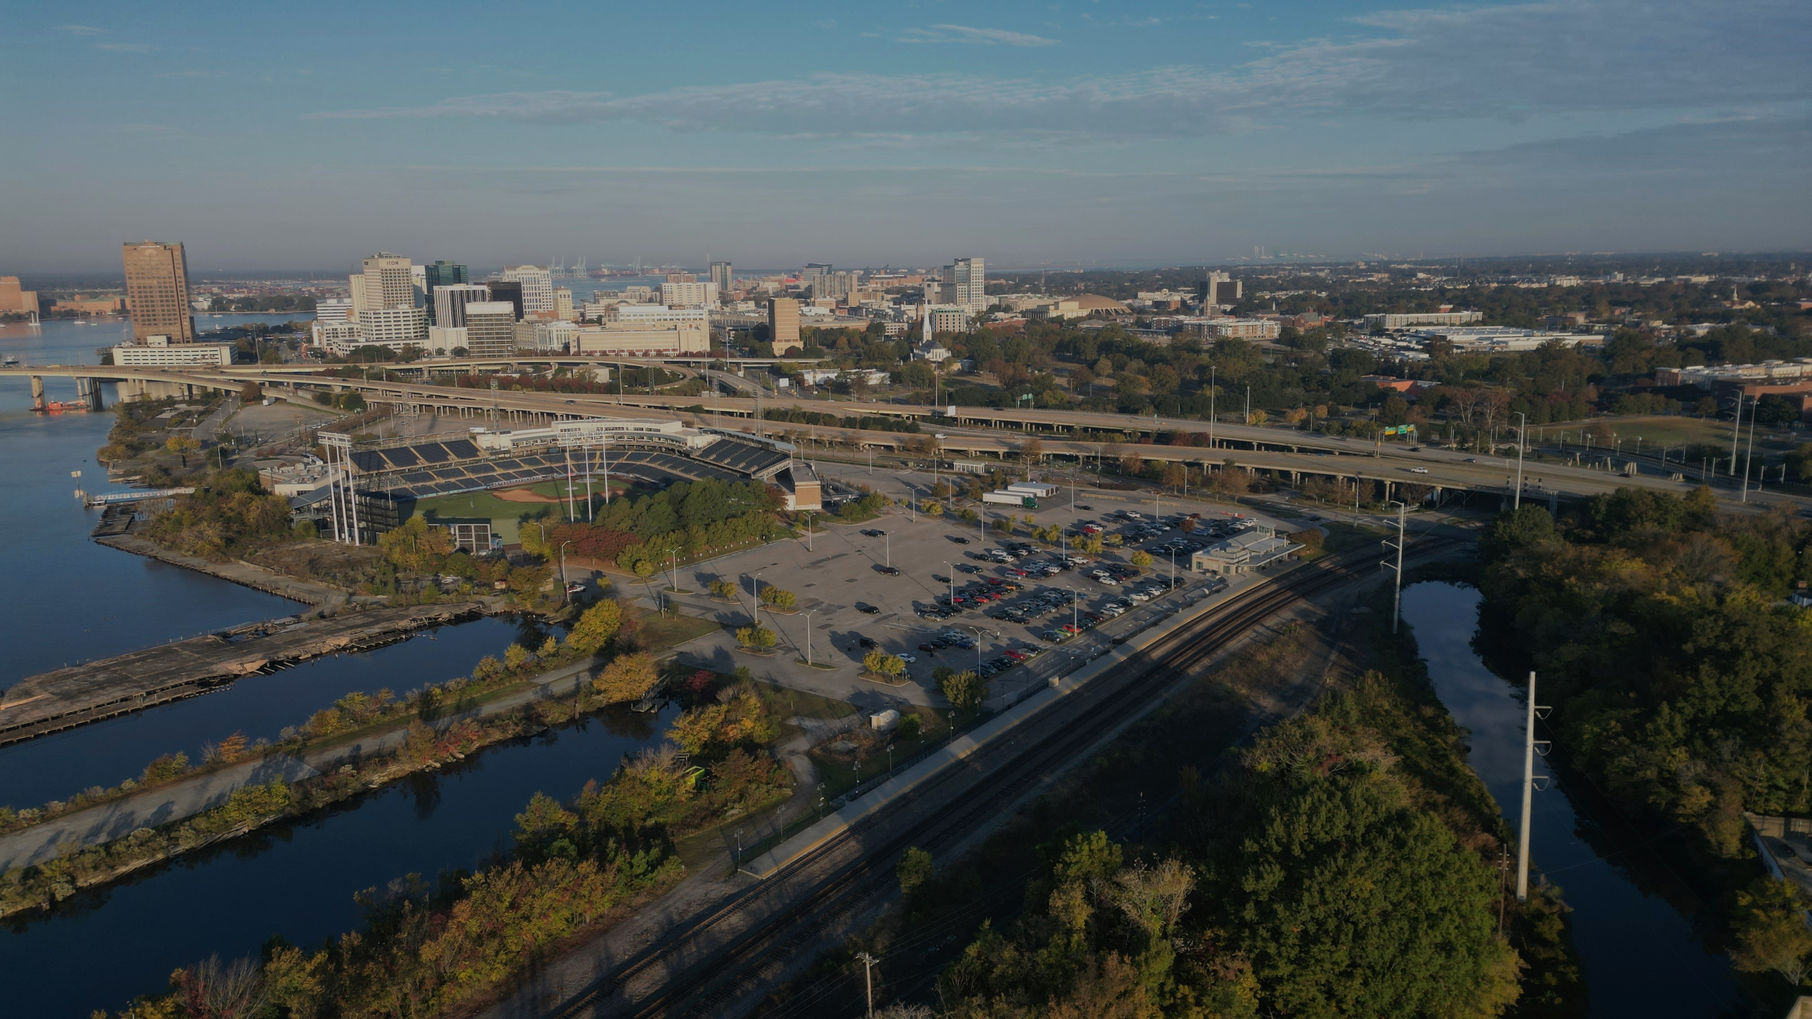
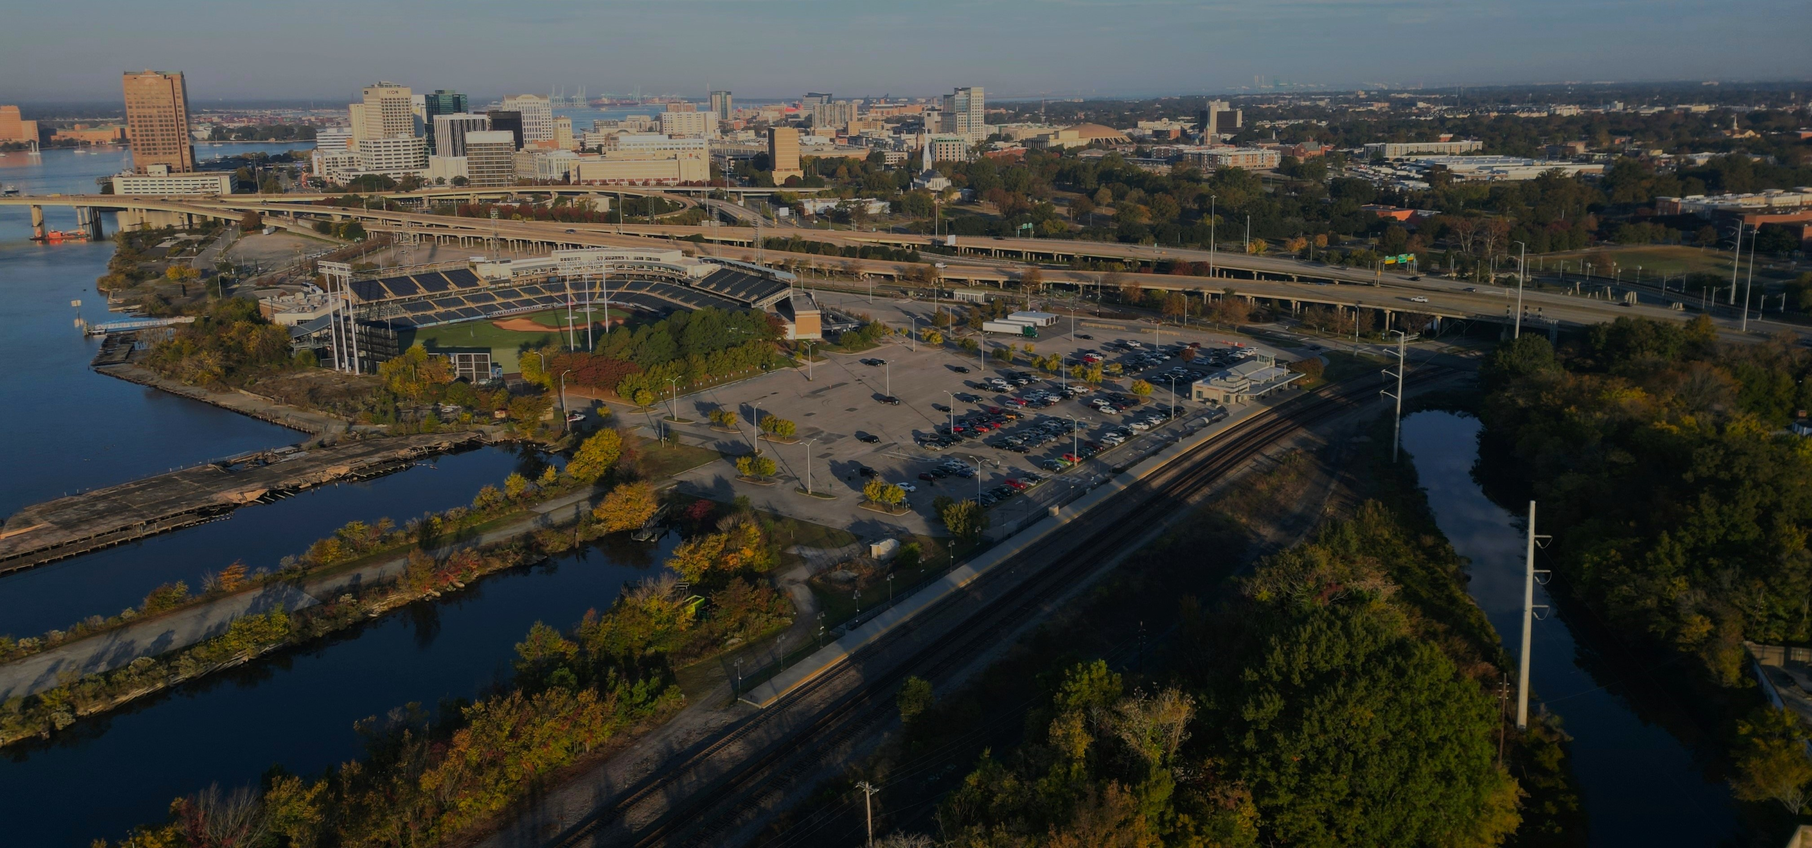
Update 1/28/2024

diff --git a/design.html b/design.html
@@ -23,7 +23,7 @@
                     <div class="collapse navbar-collapse" id="navbarSupportedContent">
                         <ul class="navbar-nav ms-auto mb-2 mb-lg-0">
                             <li class="nav-item"><a class="nav-link" href="index.html">Home</a></li>
-                            <li class="nav-item"><a class="nav-link" href="design.html">Problem Statement</a></li>
+                            <li class="nav-item"><a class="nav-link" href="design.html">Design Problem</a></li>
                             <li class="nav-item"><a class="nav-link" href="cc.html">Criteria and Constraints</a></li>
                             <li class="nav-item"><a class="nav-link" href="final.html">Final Design</a></li>
                             <li class="nav-item"><a class="nav-link" href="timeline.html">Timeline and Progress</a></li>
@@ -38,7 +38,7 @@
                     <div class="row justify-content-center">
                         <div class="col-lg-8 col-xxl-6">
                             <div class="text-center my-5">
-                                <h1 class="fw-bolder mb-3">Problem Statement</h1>
+                                <h1 class="fw-bolder mb-3">Design Problem</h1>
                                 <p class="lead fw-normal text-muted mb-4"></p>
                             </div>
                         </div>
@@ -52,7 +52,17 @@
                         <div class="col-lg-6"><img class="img-fluid mb-5 mb-lg-0" src="assets/norf.jpg" alt="..." /></div>
                         <div class="col-lg-6">
                             <h2 class="fw-bolder">Background</h2>
-                            <p class="lead fw-normal text-muted mb-0"> Newton Creek is a covered creek in a the Norfolk area that experiences significant flooding from tidal and rain events. A daylighting project has the potential to create a blue-green space that would address flooding, create habitat, and a community park. The project also involves a retreat strategy to relocate roads as sea levels rise.
+                            <p class="lead fw-normal text-muted mb-0"> The design site is an area in Norfolk that experiences 
+                                significant tidal and stormwater flooding. Our goal is to develop and integrate a natural managment 
+                                solution to protect infrastructure and provide ecosystem services, all while adapting to changing 
+                                salinity and sea levels.
+                            </p>
+
+                            <br>
+                            <h2 class="fw-bolder">Problem Statement</h2>
+                            <p class="lead fw-normal text-muted mb-0">
+                                A series of BMPs to manage stormwater and tidal inundation will be designed for integration into the existing landscape to protect 
+                                infrastructure and property. The design will be resilient, able to adapt to rising sea levels and increasing salinity.
                             </p>
                         </div>
                     </div>
@@ -62,14 +72,27 @@
             <section class="py-5">
                 <div class="container px-5 my-5">
                     <div class="row gx-5 align-items-center">
-                        <div class="col-lg-6 order-first order-lg-last"><img class="img-fluid  mb-5 mb-lg-0" src="assets/flood.jpeg" alt="..." /></div>
+                        <div class="col-lg-6 order-first order-lg-last"><img class="img-fluid  mb-5 mb-lg-0" src="assets/flood.jpeg" alt="..." />
+                            <br>
+                            <img class="img-fluid  mb-5 mb-lg-0" src="assets/diagram.jpg" alt="..." /></div>
                         <div class="col-lg-6">
-                            <h2 class="fw-bolder">Problem Statement</h2>
-                            <p class="lead fw-normal text-muted mb-0">
-                                Historic development in the St. Paul redevelopment area of Norfolk has led to flooding, especially during periods of high intensity precipitation events. This flooding has significant and detrimental effects on the residences of this area. Moreover, this area is forecasted to be a safe haven against future flooding because of its increased elevation relative to the area around it. The needs of future residents should also be considered for any potential design plans. A good redesign of this area has the potential to address the needs of the local residents, ecosystems, and economies. If no action is taken, the area will continue to flood, and this flooding will only intensify due to changing climatic conditions. 
-
-                            </p>
-                        </div>
+                            <h2 class="fw-bolder">Goals and Objectives:</h2>
+                                <h4 class="">G1: Reduce tidal and stormwater flooding  </h4>
+                                <p class="lead fw-normal text-muted mb-0"> O1: Provide storage and tidal buffer areas </p>
+                                <br>
+                                <h4 class="">G2: Transition to marshland buffer zone after design life of project </h4>
+                                <p class="lead fw-normal text-muted mb-0"> O2: Grade wetland areas to allow for upland retreat as water table rises  </p>
+                                <br>
+                                <h4 class="">G3: Reduce sediment and chemical pollutant delivery   </h4>
+                                <p class="lead fw-normal text-muted mb-0"> O3: Use natural methods of capture and uptake such as wetlands and settling ponds </p>
+                                <br>
+                                <h4 class="">G4: Create community green space</h4>
+                                <p class="lead fw-normal text-muted mb-0"> O4: Incorporate community amenities such as parks and play fields into site design </p>
+                                <br>
+                                <h4 class="">G5: Provide habitat for native wildlife</h4>
+                                <p class="lead fw-normal text-muted mb-0"> O5: Design site microtopography to support diverse plant communities providing habitat variation </p>
+                                <br>
+                            </div>
                     </div>
                 </div>
             </section>

diff --git a/cc.html b/cc.html
@@ -23,7 +23,7 @@
                     <div class="collapse navbar-collapse" id="navbarSupportedContent">
                         <ul class="navbar-nav ms-auto mb-2 mb-lg-0">
                             <li class="nav-item"><a class="nav-link" href="index.html">Home</a></li>
-                            <li class="nav-item"><a class="nav-link" href="design.html">Problem Statement</a></li>
+                            <li class="nav-item"><a class="nav-link" href="design.html">Design Problem</a></li>
                             <li class="nav-item"><a class="nav-link" href="cc.html">Criteria and Constraints</a></li>
                             <li class="nav-item"><a class="nav-link" href="final.html">Final Design</a></li>
                             <li class="nav-item"><a class="nav-link" href="timeline.html">Timeline and Progress</a></li>
@@ -49,14 +49,17 @@
             <section class="py-5 bg-light" id="scroll-target">
                 <div class="container px-5 my-5">
                     <div class="row gx-5 align-items-center">
-                        <div class="col-lg-6"><img class="img-fluid rounded mb-5 mb-lg-0" src="assets\DJI_0825.JPG" alt="..." /></div>
-                        <div class="col-lg-6">
+                        <div class="col-lg-8"><img class="img-fluid mb-5 mb-lg-0" src="assets\DJI_0824.JPG" alt="..." /></div>
+                        <div class="col-lg-4">
                             <h2 class="fw-bolder">Design Criteria</h2>
                             <p class="lead fw-normal text-muted mb-0">
                                 <ul>
-                                    <li>Reduce flooding in the Newton Creek/St. Paul neighborhood of Norfolk (measurable % reduction)</li>
-                                    <li>Minimize disruptions to existing infrastructure and communities</li>
-                                    <li>Create habitat to support local biodiversity</li>
+                                    <li>Attenuate stormwater and storm surge peaks by 20% for a 100 year flood</li>
+                                    <li>Maintain a functional design life of 20 years given the projected sea level rise of .41 meters and the associated increase in salinity during that time. 
+                                    <li>Create a plant community with a Shannon Diversity Index of at least 2.5</li>
+                                    <li>Reduce Total Suspended Solids (TSS) by 20%</li>
+                                    <li>Remain within a $2,000,000 budget</li>
+
                                 </ul>                                
                             </p>
                         </div>
@@ -67,14 +70,44 @@
             <section class="py-5">
                 <div class="container px-5 my-5">
                     <div class="row gx-5 align-items-center">
-                        <div class="col-lg-6 order-first order-lg-last"><img class="img-fluid rounded mb-5 mb-lg-0" src="assets\DJI_0801.JPG" alt="..." /></div>
-                        <div class="col-lg-6">
+                        <div class="col-lg-8 order-first order-lg-last"><img class="img-fluid mb-5 mb-lg-0" src="assets\DJI_0825.JPG" alt="..." /></div>
+                        <div class="col-lg-4">
                             <h2 class="fw-bolder">Design Constraints</h2>
                             <p class="lead fw-normal text-muted mb-0">
                                 <ul>
-                                    <li>Keep costs equal to or lower than projects of a similar scale</li>
                                     <li>Preserve the Gethsemane Community Fellowship Church and McDemmond Center for Applied Research</li>
+                                    <li>Easily maintained by local maintenance crews</li>
+                                    <li>Minimal modification to existing transportation infrastructure (railroad, highway, parking lot)</li>
                                 </ul>
+                            </p>
+                        </div>
+                    </div>
+                </div>
+            </section>
+
+
+            <section class="py-5">
+                <div class="container px-5 my-5">
+                    <div class="row gx-5 align-items-center">
+                        <div class="col-lg-12">
+                            <h2 class="fw-bolder">Standards</h2>
+                            <p class="lead fw-normal text-muted mb-0">
+                                <br>
+                               <b>Virginia DEQ Stormwater Design Specification no. 13: Constructed Wetlands</b>
+                               <br>
+                               <p>Sec. 5: Feasibility & Design Applications </p>
+                                <p>Sec. 6.1: Sizing of constructed wetlands </p>
+                                <p>Sec. 6.2: Minimum pool depth</p>
+                                <p>Sec. 6.5: Conveyance and overflow </p>
+                                <p>Sec. 6.9: Landscaping with native flora </p>
+
+                                <b>ASCE 45-16: Standard Guidelines for the Design of Urban Stormwater Systems</b>
+                                 <br>
+                                <b>VA DEQ BMP Clearinghouse Design Specifications:</b>
+                                <p>No. 9.: Bioretention Ponds</p>
+                                <p>No. 11: Wet Swales</p>
+                                <p>No. 13: Constructed Wetlands</p>
+                                
                             </p>
                         </div>
                     </div>

diff --git a/index.html b/index.html
@@ -23,7 +23,7 @@
                     <div class="collapse navbar-collapse" id="navbarSupportedContent">
                         <ul class="navbar-nav ms-auto mb-2 mb-lg-0">
                             <li class="nav-item"><a class="nav-link" href="index.html">Home</a></li>
-                            <li class="nav-item"><a class="nav-link" href="design.html">Problem Statement</a></li>
+                            <li class="nav-item"><a class="nav-link" href="design.html">Design Problem</a></li>
                             <li class="nav-item"><a class="nav-link" href="cc.html">Criteria and Constraints</a></li>
                             <li class="nav-item"><a class="nav-link" href="final.html">Final Design</a></li>
                             <li class="nav-item"><a class="nav-link" href="timeline.html">Timeline and Progress</a></li>
@@ -33,10 +33,11 @@
                 </div>
             </nav>
             <!-- Header-->
-            <header class="py-9", style="background-image:  url('assets/DJI_0818.JPG'); background-size: cover;  padding: 4% 5% 40% 5%">
+            <header class="py-9", style="background-image:  url('assets/DJI_0818.JPG'); background-size: cover;  padding: 6%">
+                <div class="title">
                 <h1 class="display-5 fw-bolder text-white mb-2">Newton Creek Resilient Restoration Project</h1>
                 <p class="lead fw-normal text-light mb-4">Creating a blue-green space in Downtown Norfolk</p>                           
-           
+                </div>
             </header>
             
         <!-- Team members section-->
@@ -77,36 +78,46 @@
                     </div>
                 </div>
             </div>
+
+            <div class="container px-5 my-5">
+                <div class="text-center">
+                    <h2 class="fw-bolder">Advisors</h2>
+                    <p class="lead fw-normal text-muted mb-5"></p>
+                </div>
+                <div class="row gx-5 row-cols-1 row-cols-sm-2 row-cols-xl-4 justify-content-center">
+                    <div class="col mb-5 mb-5 mb-xl-0">
+                        <div class="text-center">
+                            <img class="img-fluid mb-4 px-4" src="assets/sample.jpg" alt="..." />
+                            <h5 class="fw-bolder">Dr. David Sample</h5>
+                            <div class="text-muted"><b>Professor of Biological Systems Engineering at Virginia Tech</b> 
+                                <br>Urban stormwater management, watershed modeling, and design of best management practices </div>
+                        </div>
+                    </div>
+                    <div class="col mb-5 mb-5 mb-xl-0">
+                        <div class="text-center">
+                            <img class="img-fluid mb-4 px-4" src="assets/sri.jpg" alt="..." />
+                            <h5 class="fw-bolder">Dr.Venkat Sridhar</h5>
+                            <div class="text-muted"><b>Professor of Biological Systems Engineering at Virginia Tech</b>
+                                <br>River basin modeling, climate impacts on hydrology and water resources, </div>
+                        </div>
+                    </div>
+                </div>
+            </div>
+
         </section>
     </main>
 
+<!-- 
+    <header class="py-9", style="background-image:  url('assets/ourprop.jpg'); background-size: cover;  padding: 6%">
+        <div style="background-color: #010c0fa2; background-size: cover;  margin: 20% 1% 1% 61%; padding: 1%;">
+        <h1 class="display-5 fw-bolder text-white mb-2">Newton Creek Resilient Restoration Project</h1>
+        <p class="lead fw-normal text-light mb-4">Creating a blue-green space in Downtown Norfolk</p>                           
+        </div>
+    </header> -->
 
     <!-- Team members section-->
     <section class="py-5 bg-light">
-        <div class="container px-5 my-5">
-            <div class="text-center">
-                <h2 class="fw-bolder">Advisors</h2>
-                <p class="lead fw-normal text-muted mb-5"></p>
-            </div>
-            <div class="row gx-5 row-cols-1 row-cols-sm-2 row-cols-xl-4 justify-content-center">
-                <div class="col mb-5 mb-5 mb-xl-0">
-                    <div class="text-center">
-                        <img class="img-fluid mb-4 px-4" src="assets/sample.jpg" alt="..." />
-                        <h5 class="fw-bolder">Dr. David Sample</h5>
-                        <div class="text-muted"><b>Professor of Biological Systems Engineering at Virginia Tech</b> 
-                            <br>Urban stormwater management, watershed modeling, and design of best management practices </div>
-                    </div>
-                </div>
-                <div class="col mb-5 mb-5 mb-xl-0">
-                    <div class="text-center">
-                        <img class="img-fluid mb-4 px-4" src="assets/sri.jpg" alt="..." />
-                        <h5 class="fw-bolder">Dr.Venkat Sridhar</h5>
-                        <div class="text-muted"><b>Professor of Biological Systems Engineering at Virginia Tech</b>
-                            <br>River basin modeling, climate impacts on hydrology and water resources, </div>
-                    </div>
-                </div>
-            </div>
-        </div>
+        
     </section>
 </main>
 

diff --git a/resources.html b/resources.html
@@ -13,6 +13,7 @@
         <!-- Core theme CSS (includes Bootstrap)-->
         <link href="css/styles.css" rel="stylesheet" />
     </head>
+
     <body class="d-flex flex-column h-100">
         <main class="flex-shrink-0">
             <!-- Navigation-->
@@ -40,9 +41,9 @@
                         <p class="lead fw-normal text-muted mb-0">Project Documents and Reports</p>
                     </div>
                     <div class="row gx-5">
-                        <div class="col-xl-8">
+                        <div class="col-xl-6">
                             <!-- FAQ Accordion 1-->
-                            <h2 class="fw-bolder mb-3">Technology Review (10/29/2023) </h2>
+                            <h2 class="fw-bolder mb-3">Technology Review</h2>
                             <div class="accordion mb-5" id="accordionExample">
                                 <div class="accordion-item">
                                     <h3 class="accordion-header" id="headingOne"><button class="accordion-button" type="button" data-bs-toggle="collapse" data-bs-target="#collapseOne" aria-expanded="true" aria-controls="collapseOne">Click to view</button></h3>
@@ -52,9 +53,12 @@
                                         </div>
                                     </div>
                                 </div>
-                               
+                            </div>
+                        </div>  
+                        
+                        <div class="col-xl-6">
                             <!-- FAQ Accordion 2-->
-                            <h2 class="fw-bolder mb-3">Analysis of Potential Solutions (12/6/2023)</h2>
+                            <h2 class="fw-bolder mb-3">Analysis of Potential Solutions</h2>
                             <div class="accordion mb-5 mb-xl-0" id="accordionExample2">
                                 <div class="accordion-item">
                                     <h3 class="accordion-header" id="headingOne"><button class="accordion-button" type="button" data-bs-toggle="collapse" data-bs-target="#collapseOne2" aria-expanded="true" aria-controls="collapseOne2">Click to view</button></h3>
@@ -64,8 +68,55 @@
                                         </div>
                                     </div>
                                 </div>
+                            </div>
+                        </div> 
 
-                                
+                        
+            <div class="container px-5 my-5">
+                <div class="text-center">
+                    <h2 class="fw-bolder">Gallery</h2>
+                    <p class="lead fw-normal text-muted mb-5"></p>
+                </div>
+
+                
+                <div class="container px-5 my-5">
+                    <div class="row gx-5 align-items-center">
+                        <div class="col-lg-6"><img class="img-fluid mb-5 mb-lg-0" src="assets/team.JPG" alt="..." /></div>
+                        <div class="col-lg-6"><img class="img-fluid mb-5 mb-lg-0" src="assets/555A8450.JPG" alt="..." /></div>
+                    </div>
+                    <br>
+                    <div class="row gx-5 align-items-center">
+                        <div class="col-lg-6">Team Photo</div>
+                        <div class="col-lg-6">Daylighted Section of Newton Creek</div>
+                    </div>
+                    <br>
+                    <div class="row gx-5 align-items-center">
+                        <div class="col-lg-6"><img class="img-fluid mb-5 mb-lg-0" src="assets/555A8443.JPG" alt="..." /></div>
+                        <div class="col-lg-6"><img class="img-fluid mb-5 mb-lg-0" src="assets/555A8436.JPG" alt="..." /></div>
+                    </div>
+                    <br>
+                    <div class="row gx-5 align-items-center">
+                        <div class="col-lg-6">Newton Creek under highway bridge</div>
+                        <div class="col-lg-6">Train tracks dividing site</div>
+                    </div>
+                    <br>
+                    <div class="row gx-5 align-items-center">
+                        <div class="col-lg-6"><img class="img-fluid mb-5 mb-lg-0" src="assets/555A8425.JPG" alt="..." /></div>
+                        <div class="col-lg-6"><img class="img-fluid mb-5 mb-lg-0" src="assets/oysters.JPG" alt="..." /></div>
+                    </div>
+                    <div class="row gx-5 align-items-center">
+                        <div class="col-lg-6">Existing stormwater structures on site</div>
+                        <div class="col-lg-6">Oysters growing in Newton Creek</div>
+                    </div>
+                    
+
+                </div>
+                
+
+            </div>
+                    
+
+            
                         <!-- <div class="col-xl-4">
                             <div class="card border-0 bg-light mt-xl-5">
                                 <div class="card-body p-4 py-lg-5">
@@ -88,8 +139,13 @@
                             </div>
                         </div> -->
                     </div>
+
+                
                 </div>
+
+                
             </section>
+        
         </main>
         <footer class="bg-dark py-4 mt-auto">
             <div class="container px-5">

diff --git a/final.html b/final.html
@@ -23,7 +23,7 @@
                     <div class="collapse navbar-collapse" id="navbarSupportedContent">
                         <ul class="navbar-nav ms-auto mb-2 mb-lg-0">
                             <li class="nav-item"><a class="nav-link" href="index.html">Home</a></li>
-                            <li class="nav-item"><a class="nav-link" href="design.html">Problem Statement</a></li>
+                            <li class="nav-item"><a class="nav-link" href="design.html">Design Problem</a></li>
                             <li class="nav-item"><a class="nav-link" href="cc.html">Criteria and Constraints</a></li>
                             <li class="nav-item"><a class="nav-link" href="final.html">Final Design</a></li>
                             <li class="nav-item"><a class="nav-link" href="timeline.html">Timeline and Progress</a></li>

diff --git a/css/styles.css b/css/styles.css
@@ -104,7 +104,12 @@ body {
   -webkit-tap-highlight-color: rgba(0, 0, 0, 0);
 }
 
-
+.title {
+  background-color: #010c0fa2; 
+  background-size: cover;  
+  margin: 20% 12% 1% 41%;
+  padding: 1%;
+}
 
 hr {
   margin: 1rem 0;
